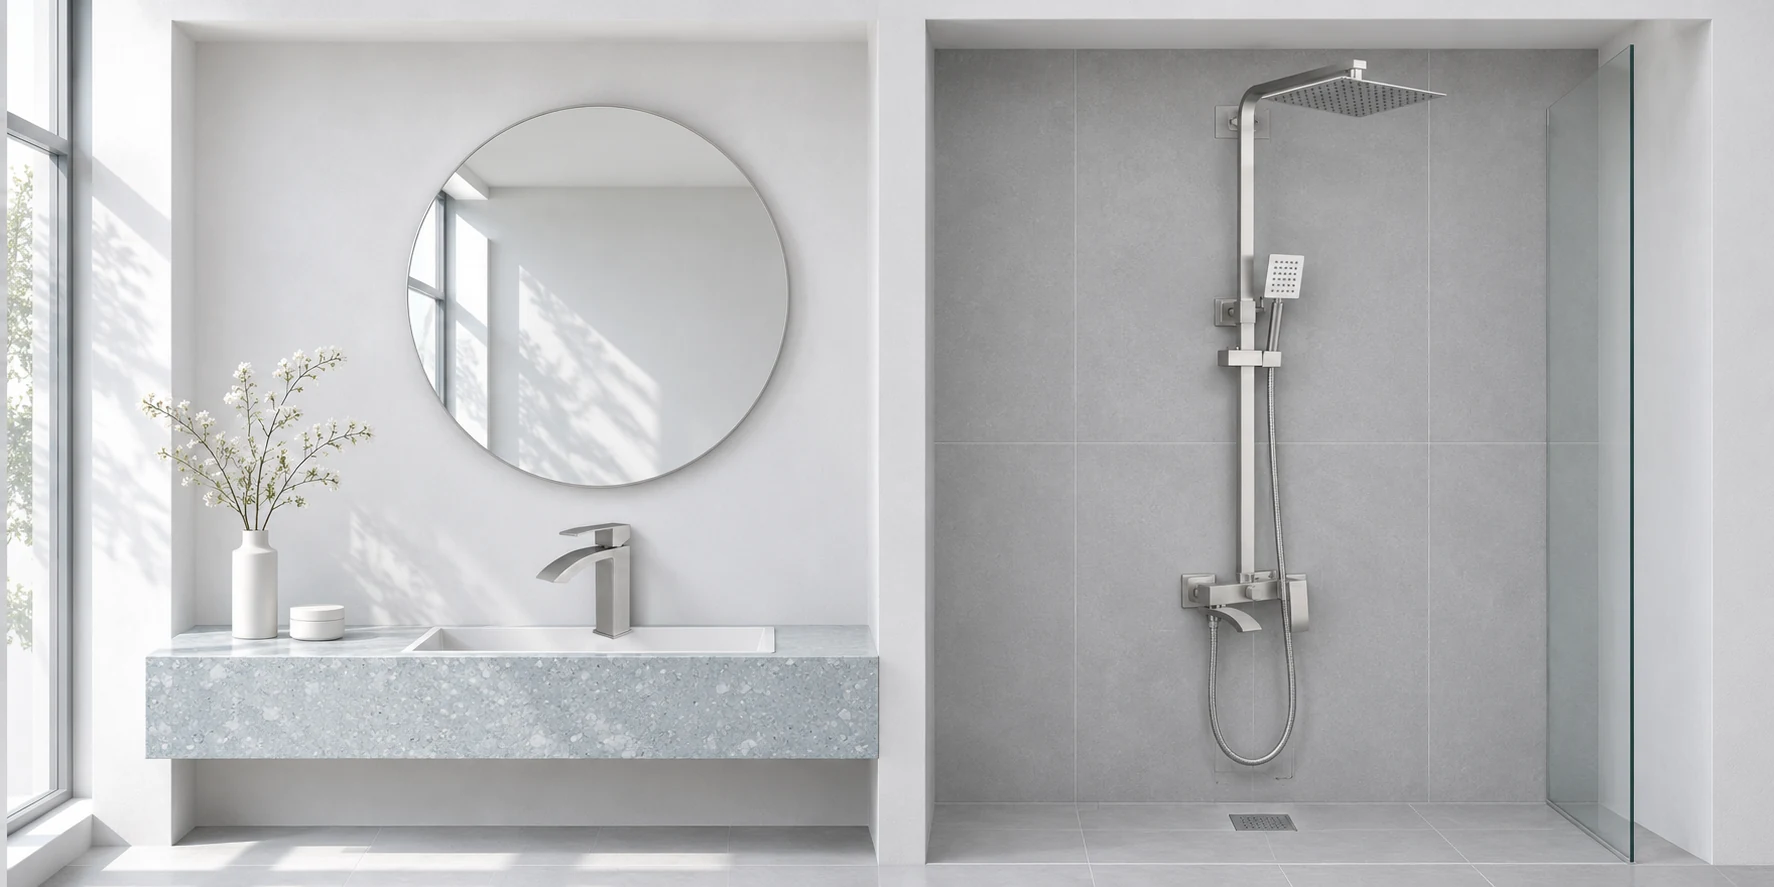
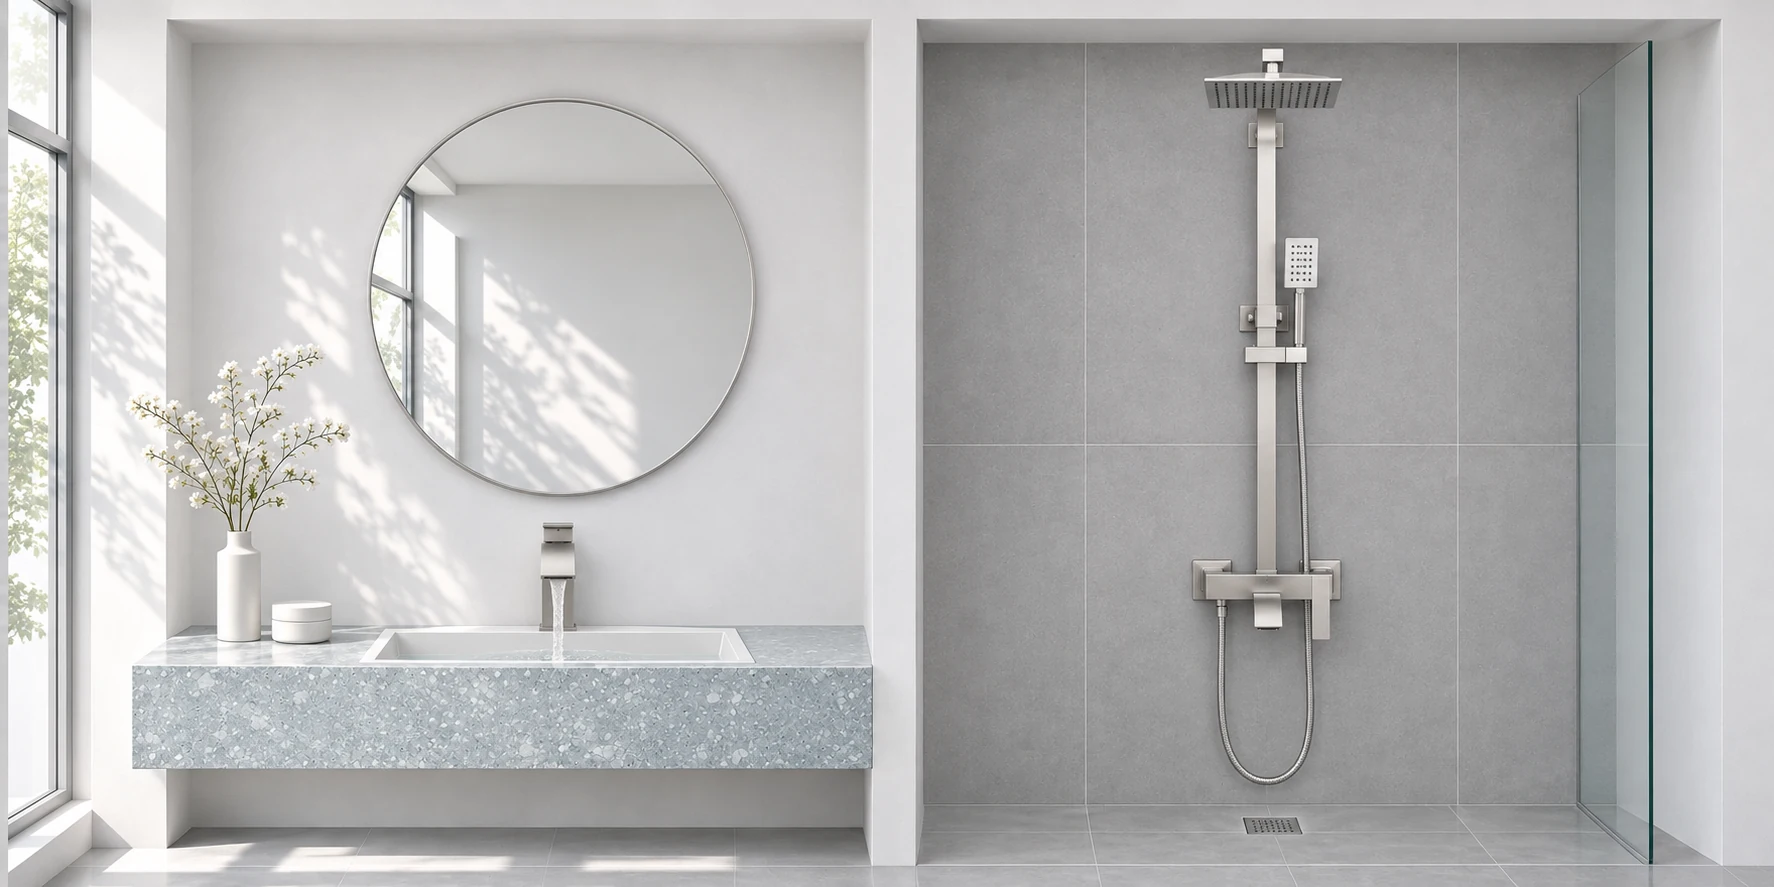
Show LAUTE shower systems and faucets straight on

Changed region(s): [[0.0, 0.0, 0.9921, 1.0], [0.6821, 0.9132, 0.7441, 0.9436], [0.093, 0.0913, 0.124, 0.1522]]

diff --git a/src/components/CompanySection.jsx b/src/components/CompanySection.jsx
@@ -178,7 +178,7 @@ export function CompanySection({ block: source, isEditor = false }) {
     {section === 'range' && <><div className="company-range-layout"><CompanyMedia imageUrl="images/collections/coll-bathroom.jpg" title={lang === 'en' ? 'Bathroom interior' : lang === 'kz' ? 'Ванна бөлмесінің интерьері' : 'Интерьер ванной комнаты'} lang={lang}><img className="company-range-image" src={resolveMediaUrl('images/collections/coll-bathroom.jpg')} alt={lang === 'en' ? 'Bathroom interior' : lang === 'kz' ? 'Ванна бөлмесінің интерьері' : 'Интерьер ванной комнаты'} loading="lazy" decoding="async" width="1200" height="896"/></CompanyMedia><div>{heading('04', 'PRODUCTS & CARE')}<div className="company-actions">{actionHref && link(actionHref, block.buttonText || w.catalog, true)}</div></div></div><section className="company-warranty"><h3 className="company-warranty-heading">{lang === 'en' ? 'Warranty and care' : lang === 'kz' ? 'Кепілдік және күтім' : 'Гарантия и уход'}</h3><div className="company-guarantees">{block.items?.map((x, i) => <article key={i}><h3>{x.title}</h3><p>{x.desc}</p></article>)}</div><div className="company-care"><p>{lang === 'ru' ? block.content?.slice(block.content.indexOf('Гарантия конкретной')) || w.care : w.care}</p><div className="company-actions">{link('/service', w.service)}</div></div></section></>}
     {section === 'geography' && <>{heading('05', 'GEOGRAPHY')}
       <CampaignBanner className="company-collection-banner company-atlas-banner" title="LAUTE Arbitrum"
-        image="images/campaign/arbitrum.webp?v=3" filters={{ collection: 'arbitrum' }} subtitle="ARB101 · ARB194-1" disabled={isEditor} />
+        image="images/campaign/arbitrum.webp?v=4" filters={{ collection: 'arbitrum' }} subtitle="ARB101 · ARB194-1" disabled={isEditor} />
       <CompanyMap items={block.items} label={w.map} lang={lang}/><details className="company-addresses"><summary>{w.more}</summary><div>{block.items?.map((x, i) => <article key={i}><h3>{x.title}</h3><p>{x.desc}</p></article>)}</div></details>{actionHref && link(actionHref, block.buttonText || w.contacts)}</>}
     {section === 'inquiry' && <><CompanyInquiry block={block} isEditor={isEditor} w={w}/><details className="company-sources"><summary>{w.source}</summary><a href="https://laute.ltd/company" target="_blank" rel="noopener noreferrer">LAUTE / COMPANY ↗</a><a href="https://laute.ltd/service" target="_blank" rel="noopener noreferrer">SERVICE ↗</a></details></>}
   </div>;

diff --git a/src/styles/index.css b/src/styles/index.css
@@ -9223,6 +9223,7 @@ a.collection-gallery-item { cursor: pointer; color: inherit; }
 .campaign-caption > span { display: inline-flex; align-items: center; gap: 7px; font-size: .85rem; }
 .campaign-banner:hover .campaign-caption > span { text-decoration: underline; }
 .company-atlas-banner { margin-bottom: 22px; }
+.company-atlas-banner .campaign-caption { position: static; border-radius: 0; }
 .hero-slide .hero-slide-bg[data-campaign-slide="shower"] {
   padding-top: calc(var(--header-height) + var(--sat, 0px));
   background-origin: content-box;

diff --git a/src/components/CollectionsSection.jsx b/src/components/CollectionsSection.jsx
@@ -14,7 +14,7 @@ export const CollectionsSection = () => {
       id: 'bathroom',
       title: 'LAUTE Trump',
       subtitle: 'TRUMP101GQ · TRUMP194',
-      image: baseUrl + 'images/campaign/trump.webp?v=3',
+      image: baseUrl + 'images/campaign/trump.webp?v=4',
       route: catalogRoute({ collection: 'trump' }),
       layoutClass: 'collection-card-featured'
     },
